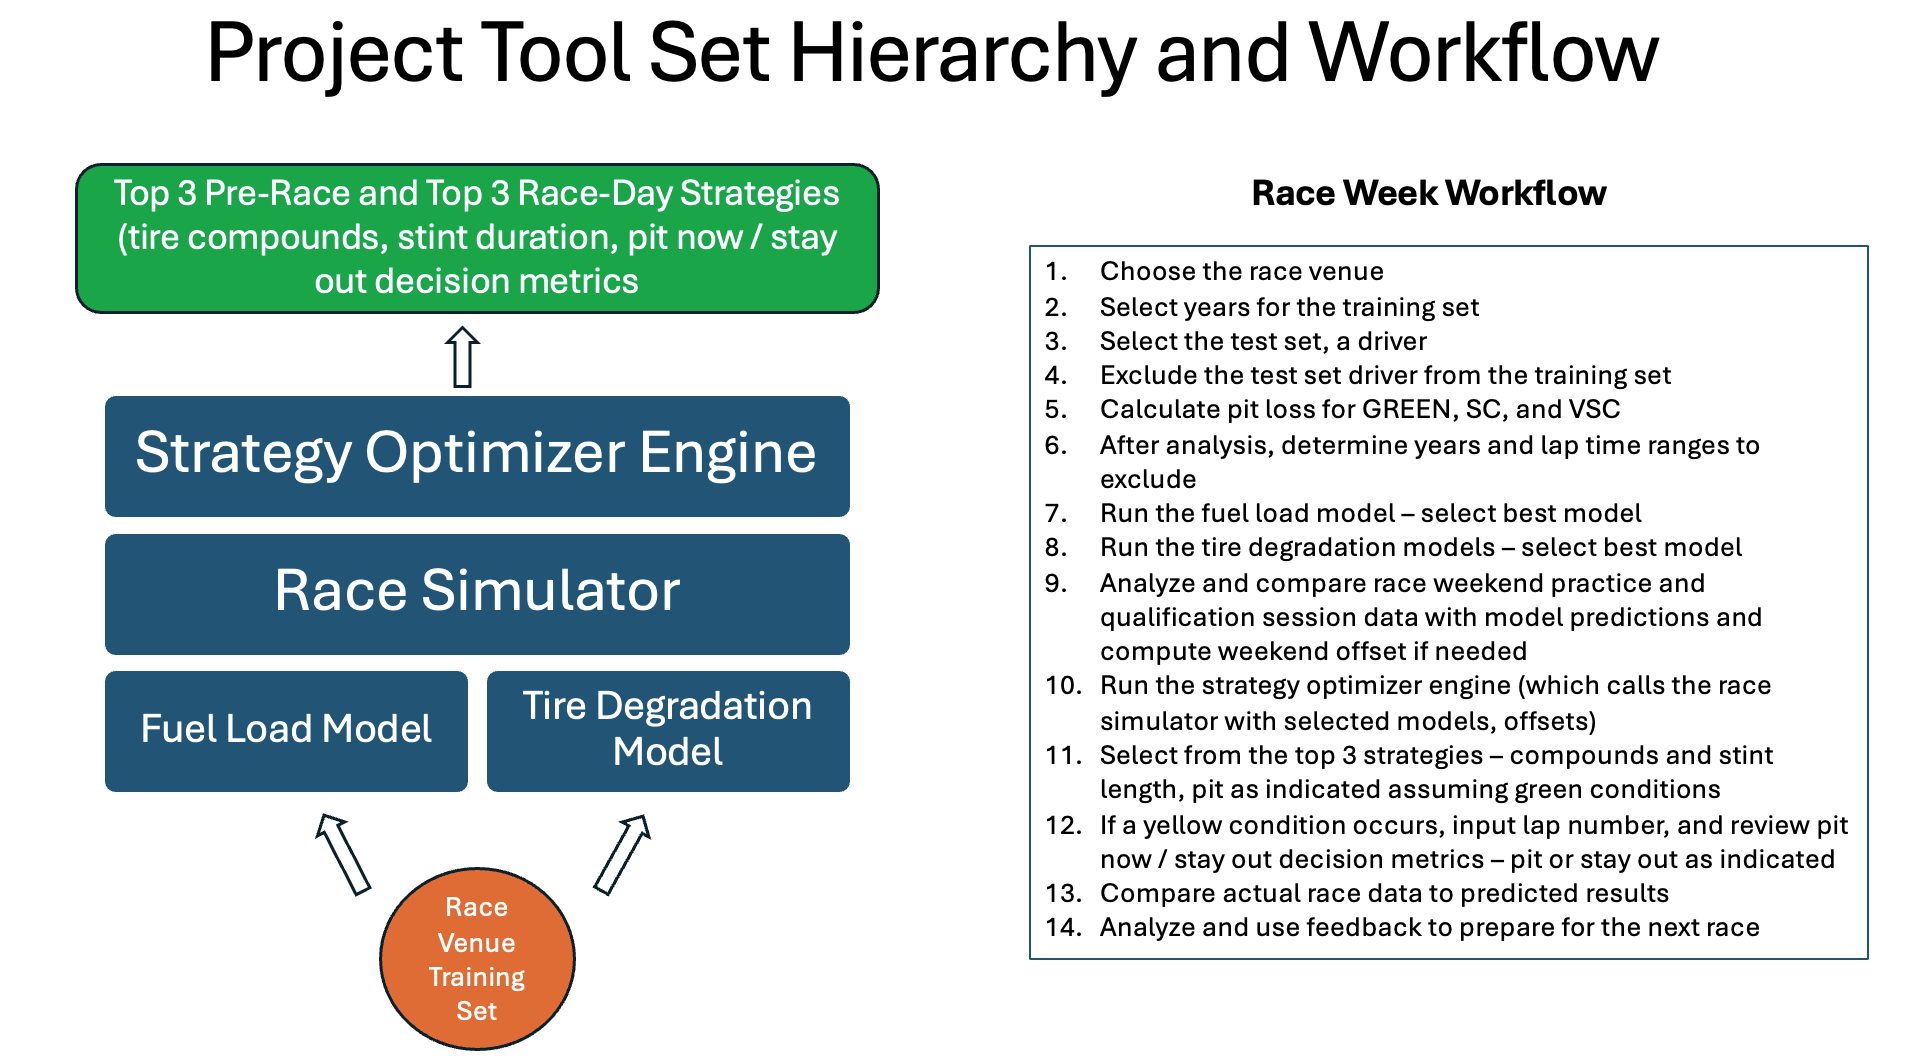
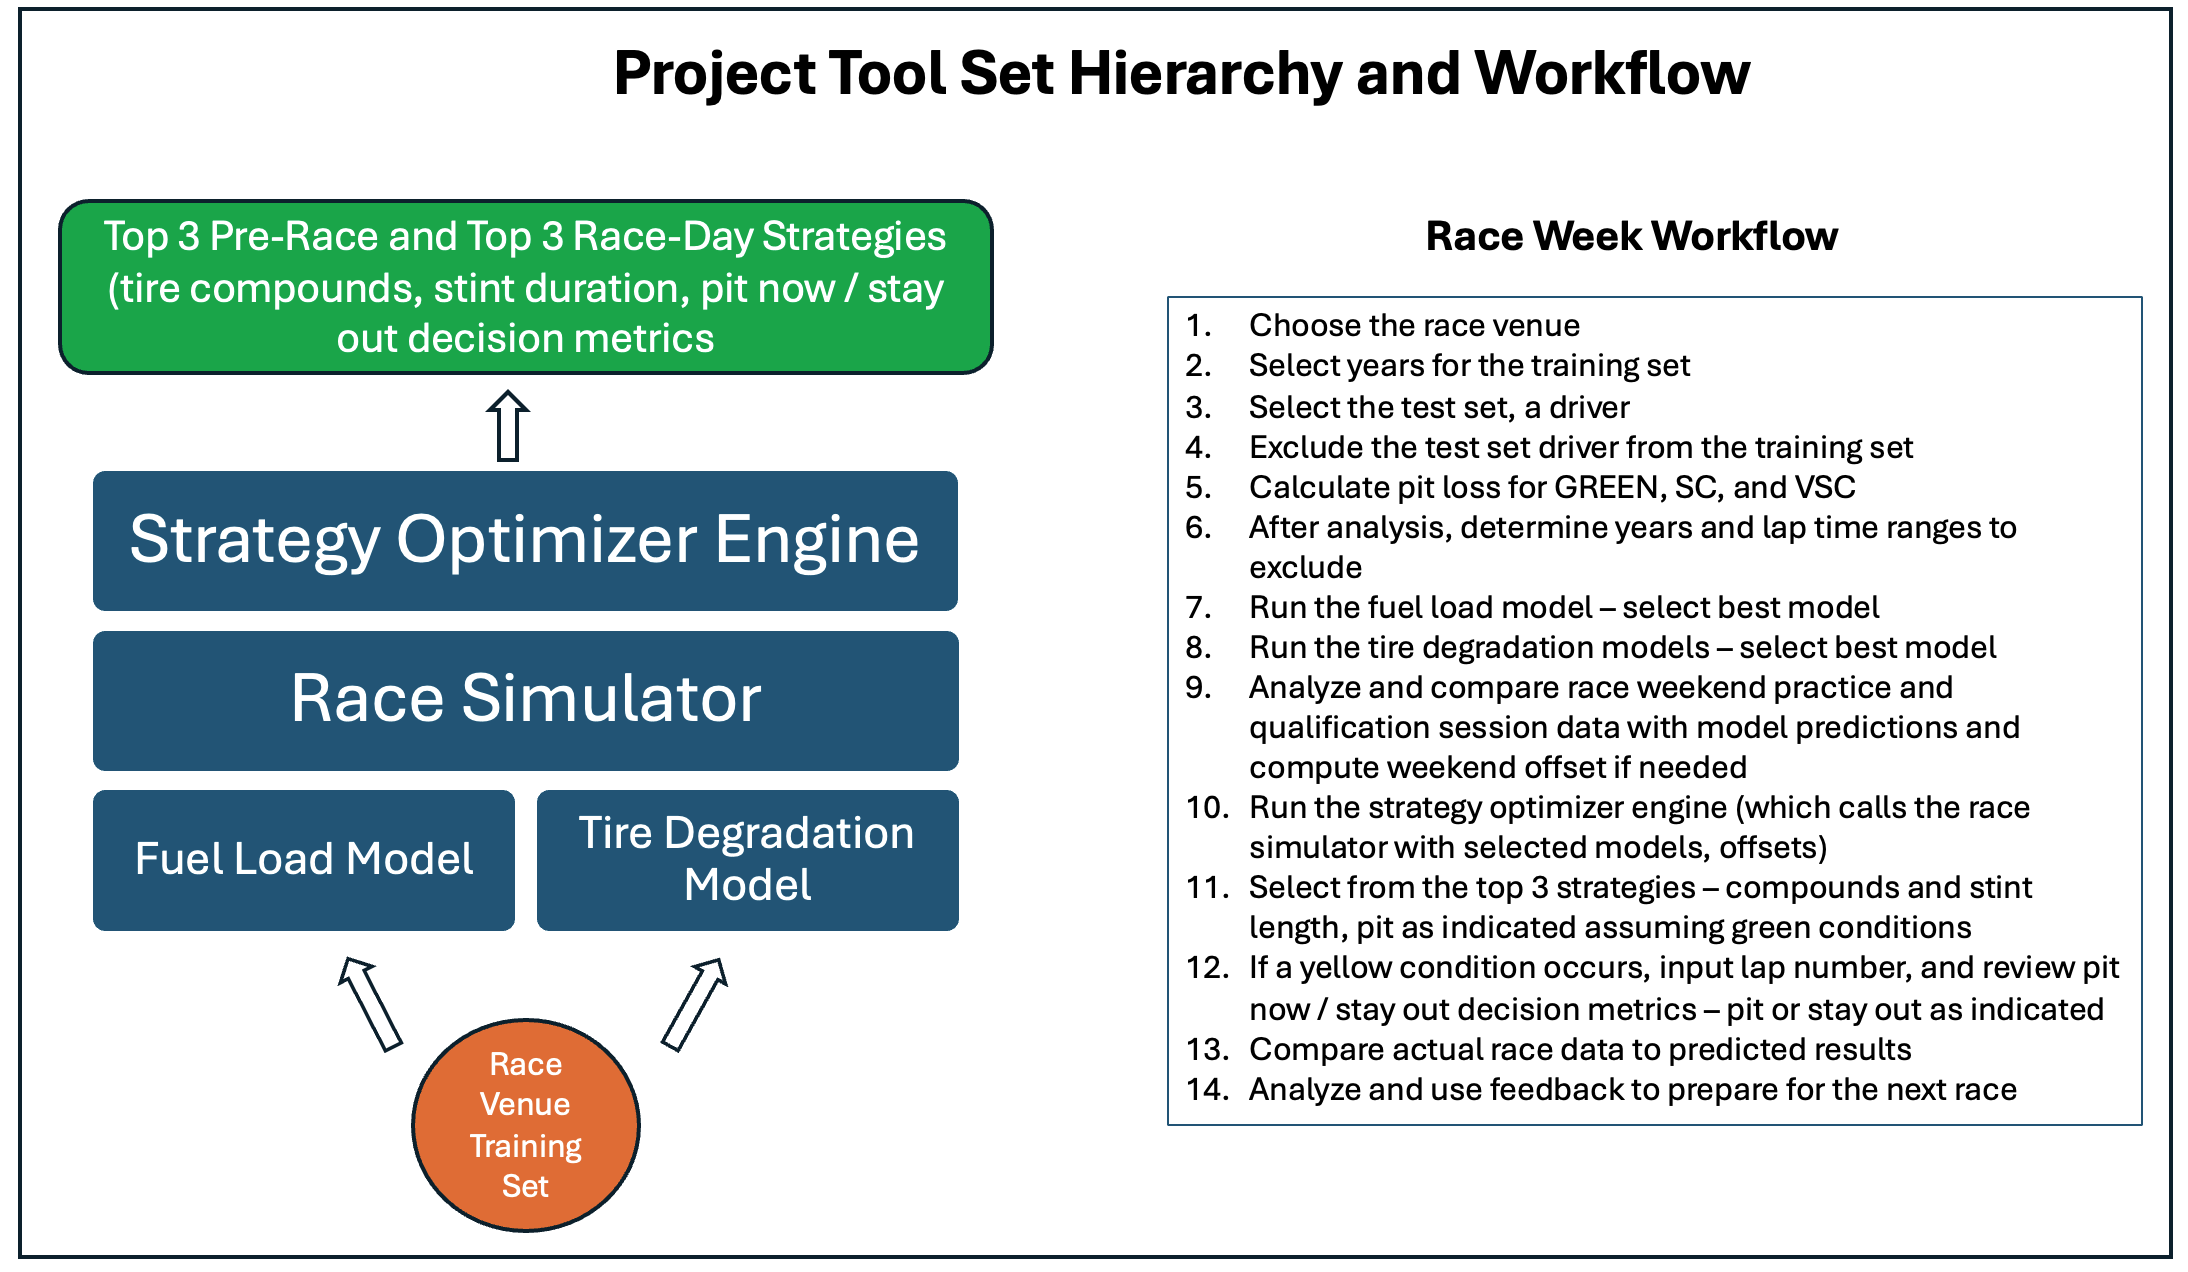
Adding text and cleaning up workflow diagram.

Changed region(s): [[0.0, 0.0, 1.0, 0.9925], [0.0, 0.1551, 0.4634, 0.3102], [0.2162, 0.3102, 0.2471, 0.3722]]

diff --git a/README.md b/README.md
@@ -75,6 +75,10 @@ Thirty-one columns of information are available per lap.  The project models use
 
 **Table 2 - Per Lap Timing Data**
 
+## Project Tool Set Hierarchy and Workflow
+
+The following diagram indicates how data comes into the project, and the relationship between the models, the race simulator and the strategy optimization engine.  The race week worflow describes the steps a race engineer would follow to prepare for an upcoming race. 
+![Model Performance](images/workflow.png)
 ## Data Preprocessing/Preparation
 
 As indicated by Table 2, all available timing data needed for model development was available via the FastF1 API – 
